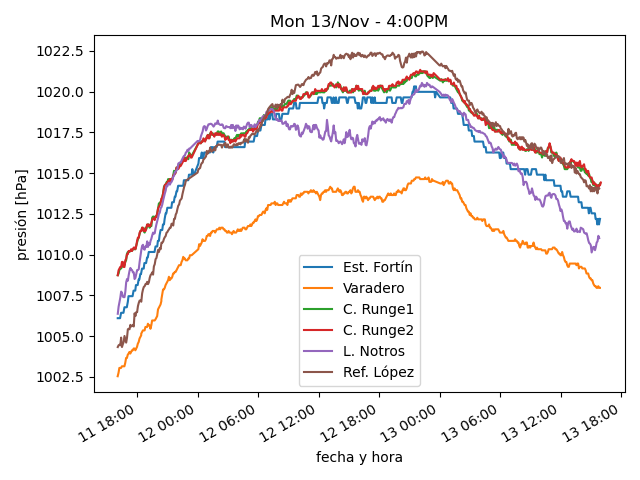
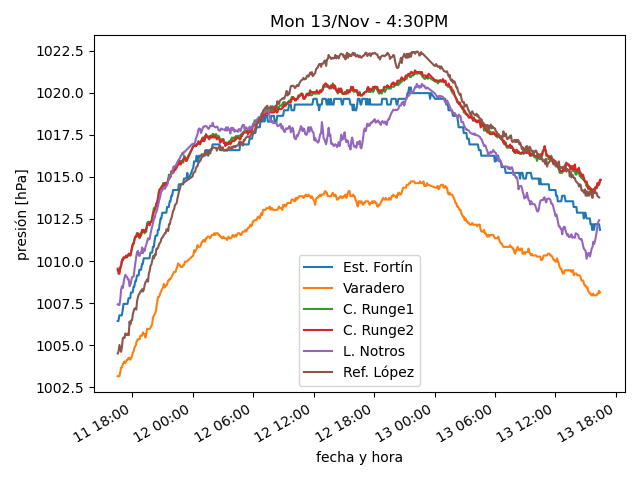
actualiza datos

diff --git a/estaciones/estacion3.html b/estaciones/estacion3.html
@@ -18,47 +18,47 @@
     </tr>
     <tr>
      <td class="stats_data">
-      3:54PM
+      4:24PM
      </td>
     </tr>
     <tr>
      <td class="stats_data">
-      6.8⁰C
+      5.2⁰C
      </td>
     </tr>
     <tr>
      <td class="stats_data">
-      3.5⁰C
+      3.2⁰C
      </td>
     </tr>
     <tr>
      <td class="stats_data">
-      79.8%
+      87.0%
      </td>
     </tr>
     <tr>
      <td class="stats_data">
-      1002.64hPa
+      1003.01hPa
      </td>
     </tr>
     <tr>
      <td class="stats_data">
-      12.0/19.4 km/hr WNW
+      12.8/18.4 km/hr WNW
      </td>
     </tr>
     <tr>
      <td class="stats_data">
-      0.0 / 0.0 mm
+      0.2 / 1.19 mm
      </td>
     </tr>
     <tr>
      <td class="stats_data">
-      4.0
+      1.0
      </td>
     </tr>
     <tr>
      <td class="stats_data">
-      352.6 W/m²
+      140.1 W/m²
      </td>
     </tr>
    </tbody>

diff --git a/estaciones/estacion4.html b/estaciones/estacion4.html
@@ -18,47 +18,47 @@
     </tr>
     <tr>
      <td class="stats_data">
-      3:59PM
+      4:29PM
      </td>
     </tr>
     <tr>
      <td class="stats_data">
-      7.5⁰C
+      4.9⁰C
      </td>
     </tr>
     <tr>
      <td class="stats_data">
-      2.9⁰C
+      2.5⁰C
      </td>
     </tr>
     <tr>
      <td class="stats_data">
-      72.3%
+      84.4%
      </td>
     </tr>
     <tr>
      <td class="stats_data">
-      1011.41hPa
+      1011.82hPa
      </td>
     </tr>
     <tr>
      <td class="stats_data">
-      5.7/8.5 km/hr SSW
+      7.9/11.8 km/hr SSW
      </td>
     </tr>
     <tr>
      <td class="stats_data">
-      0.0 / 0.0 mm
+      0.51 / 3.0 mm
      </td>
     </tr>
     <tr>
      <td class="stats_data">
-      2.0
+      1.0
      </td>
     </tr>
     <tr>
      <td class="stats_data">
-      250.2 W/m²
+      104.4 W/m²
      </td>
     </tr>
    </tbody>

diff --git a/estaciones/estacion6.html b/estaciones/estacion6.html
@@ -18,37 +18,37 @@
     </tr>
     <tr>
      <td class="stats_data">
-      3:50PM
+      4:20PM
      </td>
     </tr>
     <tr>
      <td class="stats_data">
-      -0.1⁰C
+      -1.1⁰C
      </td>
     </tr>
     <tr>
      <td class="stats_data">
-      -0.9⁰C
+      -1.6⁰C
      </td>
     </tr>
     <tr>
      <td class="stats_data">
-      94.0%
+      96.0%
      </td>
     </tr>
     <tr>
      <td class="stats_data">
-      1015.44hPa
+      1015.17hPa
      </td>
     </tr>
     <tr>
      <td class="stats_data">
-      12.9/29.0 km/hr NE
+      11.3/20.9 km/hr N
      </td>
     </tr>
     <tr>
      <td class="stats_data">
-      1.02 / 0.51 mm
+      1.02 / 0.25 mm
      </td>
     </tr>
     <tr>
@@ -58,7 +58,7 @@
     </tr>
     <tr>
      <td class="stats_data">
-      897.0 W/m²
+      1310.0 W/m²
      </td>
     </tr>
    </tbody>

diff --git a/estaciones/estacion1.html b/estaciones/estacion1.html
@@ -18,32 +18,32 @@
     </tr>
     <tr>
      <td class="stats_data">
-      3:54PM
+      4:24PM
      </td>
     </tr>
     <tr>
      <td class="stats_data">
-      10.4⁰C
+      10.3⁰C
      </td>
     </tr>
     <tr>
      <td class="stats_data">
-      2.0⁰C
+      1.8⁰C
      </td>
     </tr>
     <tr>
      <td class="stats_data">
-      56.0%
+      55.7%
      </td>
     </tr>
     <tr>
      <td class="stats_data">
-      1012.19hPa
+      1011.85hPa
      </td>
     </tr>
     <tr>
      <td class="stats_data">
-      18.3/49.4 km/hr W
+      33.3/50.4 km/hr WNW
      </td>
     </tr>
     <tr>
@@ -53,12 +53,12 @@
     </tr>
     <tr>
      <td class="stats_data">
-      4.6
+      3.9
      </td>
     </tr>
     <tr>
      <td class="stats_data">
-      838.0 W/m²
+      786.0 W/m²
      </td>
     </tr>
    </tbody>

diff --git a/estaciones/estacion2.html b/estaciones/estacion2.html
@@ -18,32 +18,32 @@
     </tr>
     <tr>
      <td class="stats_data">
-      3:54PM
+      4:24PM
      </td>
     </tr>
     <tr>
      <td class="stats_data">
-      8.1⁰C
+      6.8⁰C
      </td>
     </tr>
     <tr>
      <td class="stats_data">
-      4.9⁰C
+      4.5⁰C
      </td>
     </tr>
     <tr>
      <td class="stats_data">
-      80.3%
+      84.7%
      </td>
     </tr>
     <tr>
      <td class="stats_data">
-      1017.44hPa
+      1017.61hPa
      </td>
     </tr>
     <tr>
      <td class="stats_data">
-      38.4/46.0 km/hr NW
+      31.2/40.5 km/hr NW
      </td>
     </tr>
     <tr>
@@ -53,12 +53,12 @@
     </tr>
     <tr>
      <td class="stats_data">
-      7.0
+      1.0
      </td>
     </tr>
     <tr>
      <td class="stats_data">
-      784.7 W/m²
+      190.0 W/m²
      </td>
     </tr>
    </tbody>

diff --git a/estaciones/estacion5.html b/estaciones/estacion5.html
@@ -18,37 +18,37 @@
     </tr>
     <tr>
      <td class="stats_data">
-      3:50PM
+      4:20PM
      </td>
     </tr>
     <tr>
      <td class="stats_data">
-      8.4⁰C
+      5.6⁰C
      </td>
     </tr>
     <tr>
      <td class="stats_data">
-      3.7⁰C
+      3.5⁰C
      </td>
     </tr>
     <tr>
      <td class="stats_data">
-      72.0%
+      87.0%
      </td>
     </tr>
     <tr>
      <td class="stats_data">
-      1013.58hPa
+      1015.0hPa
      </td>
     </tr>
     <tr>
      <td class="stats_data">
-      0.0/3.5 km/hr N
+      0.0/0.0 km/hr N
      </td>
     </tr>
     <tr>
      <td class="stats_data">
-      0.0 / 0.0 mm
+      0.76 / 0.76 mm
      </td>
     </tr>
     <tr>
